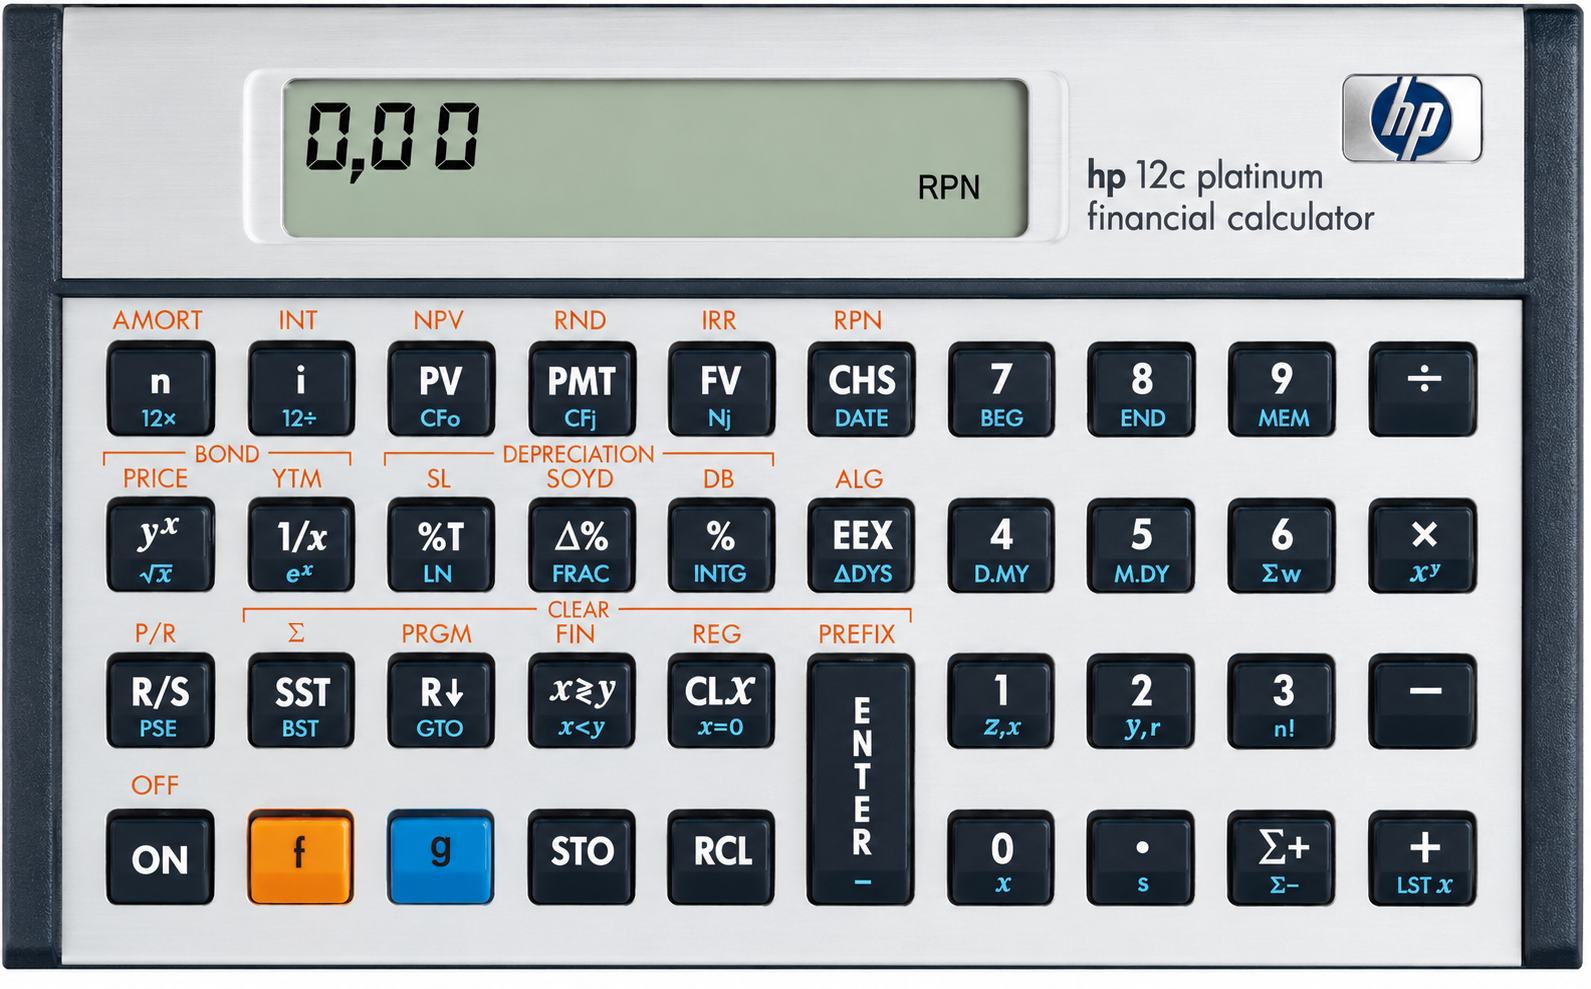
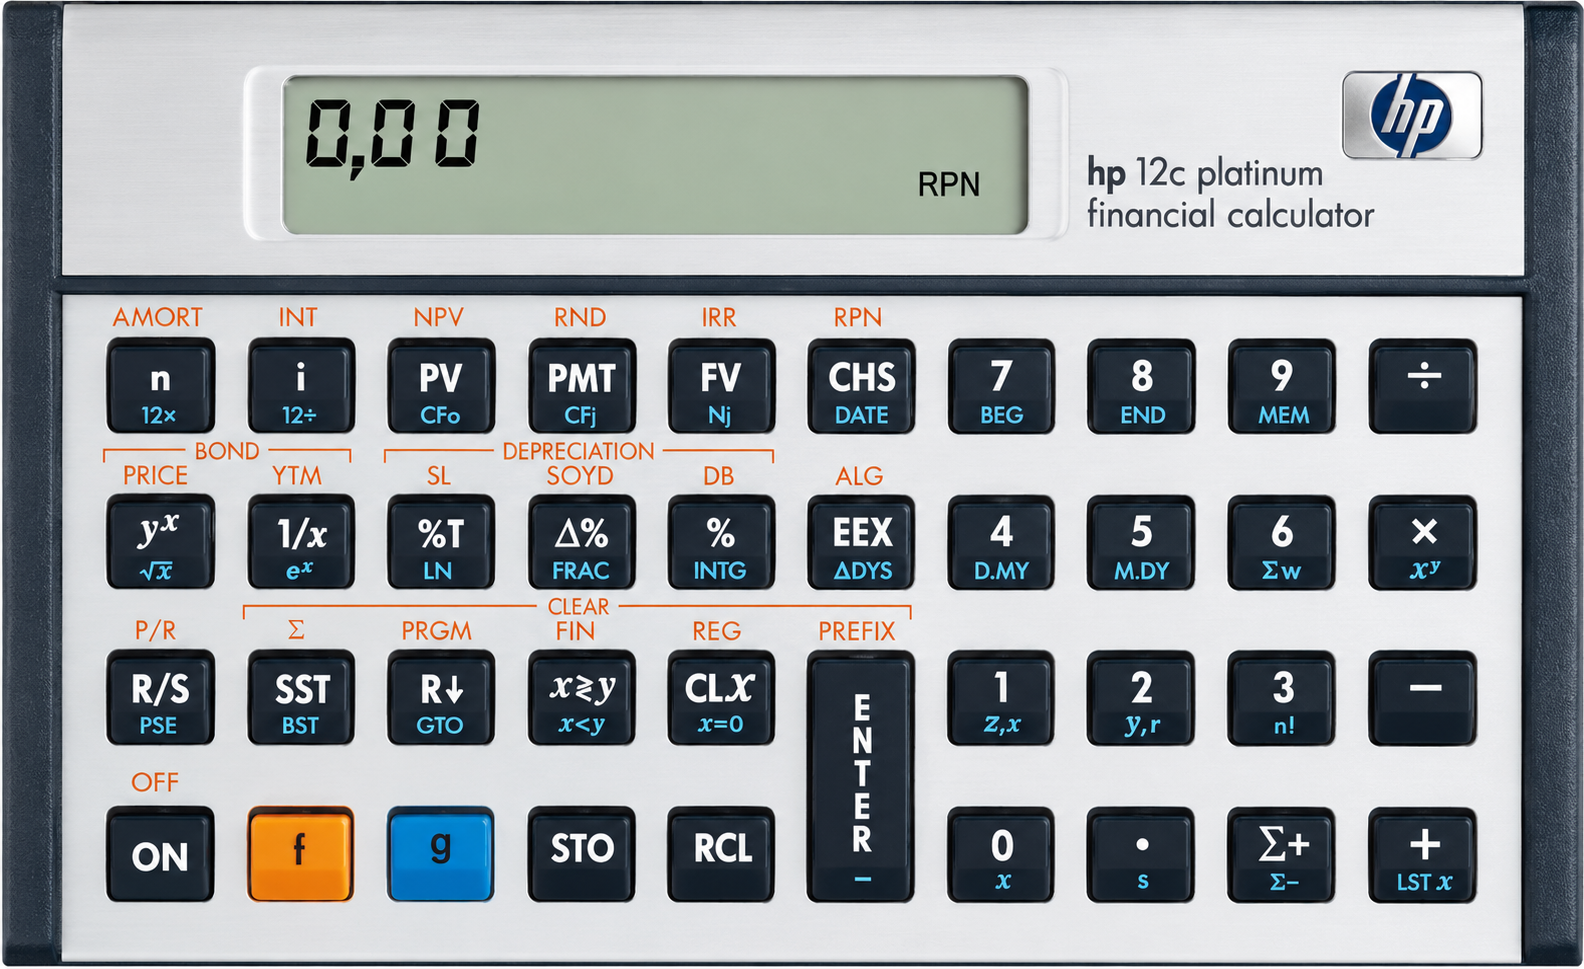
feat: refine hp12c display skin

Changed region(s): [[0.0, 0.0, 1.0, 1.0], [0.1856, 0.0619, 0.6496, 0.2477], [0.6806, 0.1548, 0.8662, 0.2477]]

diff --git a/hp12c/styles.css b/hp12c/styles.css
@@ -2,6 +2,10 @@
   color-scheme: dark;
   --bg: #141412;
   --bg-deep: #080807;
+  --engnata-dark: #1e1e1e;
+  --engnata-light: #4e7262;
+  --engnata-accent-light: #2d9fa3;
+  --engnata-accent-dark: #5cc9d0;
   --wine: #7d2535;
   --body: #1e1e1b;
   --body-edge: #0b0b0a;
@@ -25,6 +29,14 @@
     sans-serif;
 }
 
+@font-face {
+  font-family: "DSEG7ClassicMini";
+  src: url("./assets/fonts/DSEG7ClassicMini-Regular.woff2") format("woff2");
+  font-weight: 400;
+  font-style: normal;
+  font-display: swap;
+}
+
 * {
   box-sizing: border-box;
 }
@@ -37,8 +49,9 @@ body {
 body {
   margin: 0;
   background:
-    linear-gradient(135deg, rgba(255, 255, 255, 0.07) 0 1px, transparent 1px 16px),
-    linear-gradient(145deg, #11110f 0%, #262821 48%, #6b2431 100%);
+    radial-gradient(circle at 18% 8%, rgba(92, 201, 208, 0.2), transparent 34%),
+    radial-gradient(circle at 82% 92%, rgba(45, 159, 163, 0.24), transparent 34%),
+    linear-gradient(135deg, var(--engnata-dark) 0%, #2f4f45 48%, var(--engnata-light) 100%);
   color: #f5f3ec;
 }
 
@@ -238,15 +251,15 @@ a {
 
 #display {
   align-self: center;
-  justify-self: end;
+  justify-self: start;
   max-width: 100%;
   overflow: hidden;
   color: #151b11;
-  font-family: "Consolas", "Lucida Console", ui-monospace, monospace;
+  font-family: "DSEG7ClassicMini", "Consolas", "Lucida Console", ui-monospace, monospace;
   font-size: 3.3rem;
-  font-weight: 700;
+  font-weight: 400;
   line-height: 1;
-  text-align: right;
+  text-align: left;
   text-shadow: 0 1px 0 rgba(255, 255, 255, 0.24);
   white-space: nowrap;
 }
@@ -392,8 +405,7 @@ a {
   align-content: center;
 }
 
-.panel-block,
-.reference-photo {
+.panel-block {
   min-width: 0;
   margin: 0;
   border: 1px solid rgba(255, 255, 255, 0.16);
@@ -456,32 +468,6 @@ a {
   white-space: nowrap;
 }
 
-.reference-photo {
-  overflow: hidden;
-}
-
-.reference-photo img {
-  display: block;
-  width: 100%;
-  aspect-ratio: 3313 / 2030;
-  object-fit: cover;
-}
-
-.reference-photo figcaption {
-  padding: 10px 12px 12px;
-  color: #ced5d0;
-  font-size: 0.72rem;
-  line-height: 1.35;
-}
-
-.credits {
-  width: min(1800px, 100%);
-  margin: -10px auto 0;
-  padding: 0 24px 18px;
-  color: rgba(245, 243, 236, 0.78);
-  font-size: 0.72rem;
-}
-
 @media (max-width: 1080px) {
   .workspace {
     grid-template-columns: 1fr;
@@ -491,10 +477,6 @@ a {
   .register-panel {
     grid-template-columns: repeat(2, minmax(0, 1fr));
     align-items: start;
-  }
-
-  .reference-photo {
-    grid-column: 1 / -1;
   }
 }
 
@@ -508,8 +490,7 @@ a {
   .calculator-stage,
   .stage-controls,
   .calculator,
-  .register-panel,
-  .credits {
+  .register-panel {
     width: calc(100vw - 24px);
     max-width: calc(100vw - 24px);
   }
@@ -755,8 +736,7 @@ a {
     font-size: clamp(0.52rem, 3svh, 0.9rem);
   }
 
-  .register-panel,
-  .credits {
+  .register-panel {
     display: none;
   }
 }
@@ -769,8 +749,7 @@ a {
   .calculator-stage,
   .stage-controls,
   .calculator,
-  .register-panel,
-  .credits {
+  .register-panel {
     width: calc(100vw - 16px);
     max-width: calc(100vw - 16px);
   }
@@ -811,7 +790,7 @@ a {
 .calculator {
   position: relative;
   container-type: inline-size;
-  aspect-ratio: 1591 / 989;
+  aspect-ratio: 1584 / 969;
   padding: 0;
   border: 0;
   border-radius: 8px;
@@ -850,10 +829,10 @@ a {
 
 .lcd {
   position: absolute;
-  left: 17.75%;
-  top: 7.85%;
-  width: 47.25%;
-  height: 16.3%;
+  left: 17.832%;
+  top: 7.695%;
+  width: 47.459%;
+  height: 16.636%;
   min-width: 0;
   min-height: 0;
   display: grid;
@@ -881,10 +860,13 @@ a {
 
 #display {
   color: #030503;
-  font-family: "Consolas", "Lucida Console", ui-monospace, monospace;
-  font-size: clamp(1.25rem, 6.2cqw, 5rem);
-  font-weight: 800;
+  font-family: "DSEG7ClassicMini", "Consolas", "Lucida Console", ui-monospace, monospace;
+  font-size: clamp(1.08rem, 5.7cqw, 4.6rem);
+  font-weight: 400;
   line-height: 0.95;
+  letter-spacing: 0.035em;
+  justify-self: start;
+  text-align: left;
   text-shadow: none;
 }
 
@@ -937,10 +919,6 @@ a {
 .keyboard .key:focus-visible {
   outline: 3px solid rgba(104, 199, 229, 0.8);
   outline-offset: 2px;
-}
-
-.reference-photo img {
-  aspect-ratio: 1591 / 989;
 }
 
 @media (orientation: landscape) and (max-height: 540px) and (max-width: 980px) {

diff --git a/hp12c/app.js b/hp12c/app.js
@@ -114,12 +114,12 @@ function renderKeyboard() {
 }
 
 function buildSkinKeys() {
-  const width = 1591;
-  const height = 989;
+  const width = 1584;
+  const height = 969;
   const keyWidth = 110;
   const keyHeight = 96;
   const columns = [106, 249, 389, 530, 669, 810, 950, 1089, 1229, 1369];
-  const rows = [343, 499, 654, 810];
+  const rows = [340, 496, 651, 807];
 
   const pct = (value, total) => Number(((value / total) * 100).toFixed(3));
   const box = (label, action, col, row, tone = "function", options = {}) => ({
@@ -214,7 +214,7 @@ function updateViewportFit() {
     return;
   }
 
-  const ratio = 1591 / 989;
+  const ratio = 1584 / 969;
   const padding = 16;
   const availableWidth = Math.max(320, window.innerWidth - padding);
   const availableHeight = Math.max(220, window.innerHeight - padding);
@@ -1013,4 +1013,25 @@ function updateUI() {
   });
 
   document.querySelector("[data-memory]").textContent = formatRegister(state.memory);
+
+  const pendingStatus = state.pendingStore
+    ? "STO"
+    : state.pendingRecall
+      ? "RCL"
+      : state.pendingOperator
+        ? state.pendingOperator.replace("pow", "y^x")
+        : "--";
+
+  const statusValues = {
+    mode: state.mode.toUpperCase(),
+    shift: state.shift ? state.shift.toUpperCase() : "--",
+    fixed: String(state.fixed),
+    begin: state.tvm.begin ? "BEG" : "END",
+    pending: pendingStatus,
+  };
+
+  Object.entries(statusValues).forEach(([field, value]) => {
+    const element = document.querySelector(`[data-status="${field}"]`);
+    if (element) element.textContent = value;
+  });
 }

diff --git a/hp12c/index.html b/hp12c/index.html
@@ -65,18 +65,18 @@
           </dl>
         </section>
 
-        <figure class="reference-photo">
-          <img src="./imagem calculadora.png" alt="Skin frontal da calculadora HP 12C Platinum">
-          <figcaption>
-            Skin local usada como base visual da calculadora.
-          </figcaption>
-        </figure>
+        <section class="panel-block" aria-label="Estado">
+          <div class="panel-title">Estado</div>
+          <dl class="register-grid">
+            <div><dt>Modo</dt><dd data-status="mode">RPN</dd></div>
+            <div><dt>Shift</dt><dd data-status="shift">--</dd></div>
+            <div><dt>FIX</dt><dd data-status="fixed">2</dd></div>
+            <div><dt>Fluxo</dt><dd data-status="begin">END</dd></div>
+            <div><dt>Op</dt><dd data-status="pending">--</dd></div>
+          </dl>
+        </section>
       </aside>
     </main>
-
-    <footer class="credits" id="credits">
-      Skin base: imagem calculadora.png.
-    </footer>
 
     <script src="./app.js"></script>
   </body>

diff --git a/hp12c/README.md b/hp12c/README.md
@@ -9,6 +9,8 @@ Site estático para emular uma HP 12C Platinum em tela cheia.
 - `app.js`: lógica RPN/ALG, pilha, memória simples, percentuais e TVM.
 - `imagem calculadora.png`: skin principal usada na calculadora.
 - `assets/hp-12c-platinum.jpg`: foto de referência em alta resolução mantida no projeto.
+- `assets/fonts/DSEG7ClassicMini-Regular.woff2`: fonte 7 segmentos usada no display.
+- `assets/fonts/DSEG-LICENSE.txt`: licença da fonte DSEG.
 
 ## Imagens
 
@@ -19,6 +21,14 @@ A foto `assets/hp-12c-platinum.jpg` vem do Wikimedia Commons:
 - Arquivo: <https://commons.wikimedia.org/wiki/File:HP_12C_Platinum.jpg>
 - Autor: Mr Yukio
 - Licença: Creative Commons Attribution-Share Alike 4.0 International
+
+## Fonte do display
+
+O display usa a fonte DSEG7 Classic Mini:
+
+- Projeto: <https://github.com/keshikan/DSEG>
+- Autor: Keshikan
+- Licença: SIL Open Font License 1.1
 
 ## Uso local
 